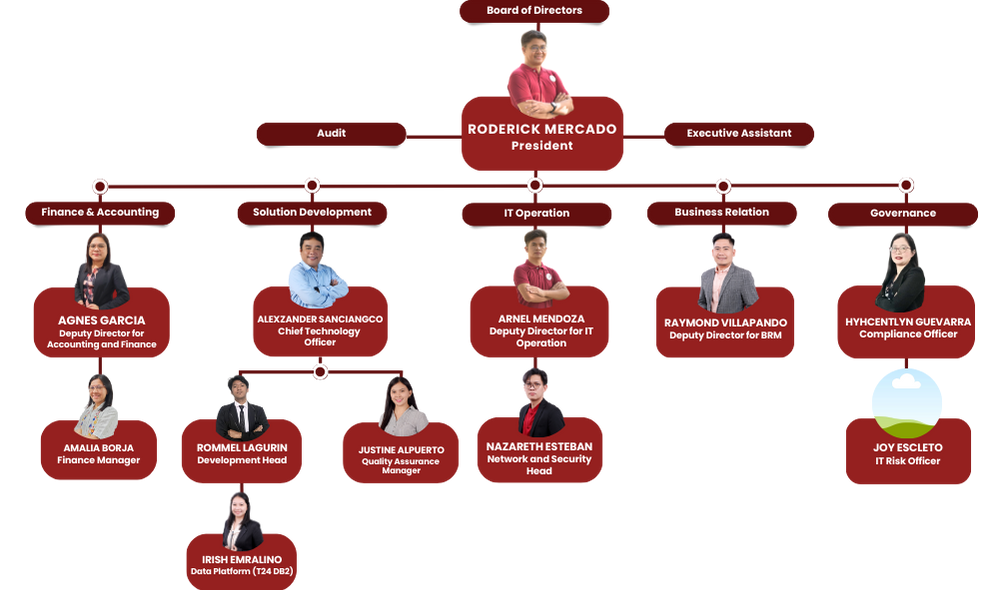
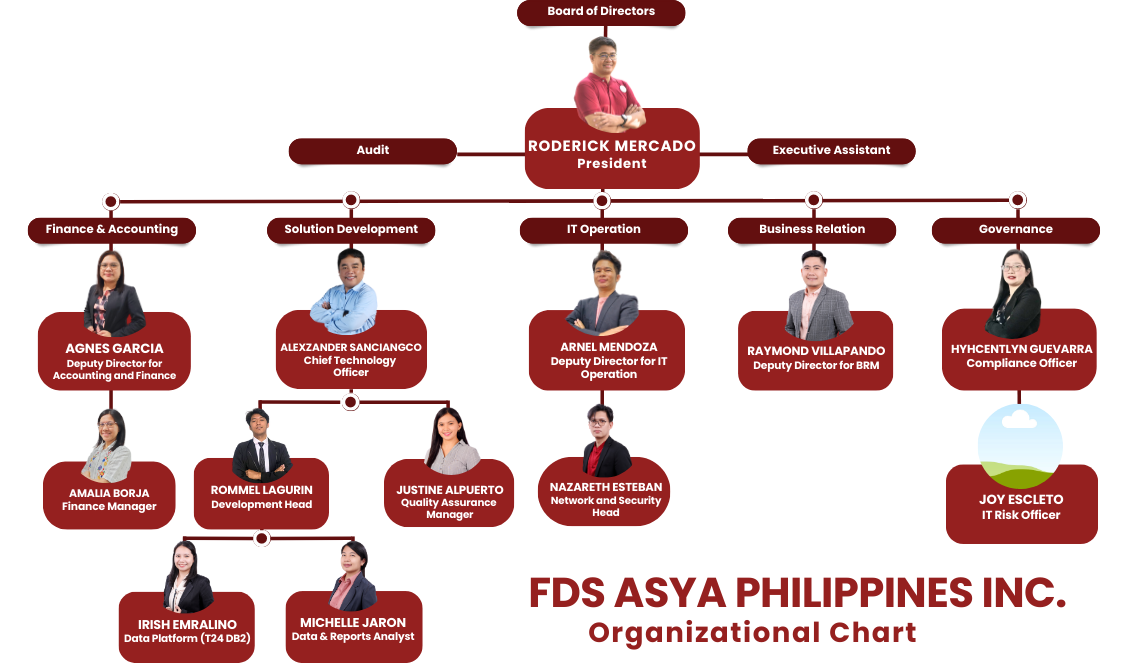
Modified Org Chart

Changed region(s): [[0.0, 0.0, 0.988, 1.0], [0.4631, 0.8542, 0.9572, 0.9763]]

diff --git a/lib/ui/screens/homepage/our_team/our_team_section.dart b/lib/ui/screens/homepage/our_team/our_team_section.dart
@@ -5,6 +5,7 @@ import 'package:FDS_ASYA_PHILIPPINES/ui/screens/shared/values/sizes.dart';
 import 'package:FDS_ASYA_PHILIPPINES/ui/screens/shared/values/strings.dart';
 import 'package:FDS_ASYA_PHILIPPINES/ui/screens/shared/values/styles.dart';
 import 'package:FDS_ASYA_PHILIPPINES/ui/screens/shared/widgets/content_area.dart';
+import 'package:FDS_ASYA_PHILIPPINES/ui/screens/shared/widgets/empty.dart';
 import 'package:FDS_ASYA_PHILIPPINES/ui/screens/shared/widgets/nimbus_info_section.dart';
 import 'package:FDS_ASYA_PHILIPPINES/ui/screens/shared/widgets/sizedbox.dart';
 import 'package:flutter/material.dart';
@@ -53,6 +54,8 @@ class _OurTeamSectionState extends State<OurTeamSection> with SingleTickerProvid
     double screenWidth = widthOfScreen(context) - (getSidePadding(context));
     double screenHeight = heightOfScreen(context);
     double contentAreaWidthSm = screenWidth * 1.1;
+    double screenWidthLg = screenWidth * 1.1;
+    double screenHeightLg = screenWidth * 1.1;
     double contentAreaWidth = responsiveSize(
       context,
       screenWidth,
@@ -90,13 +93,12 @@ class _OurTeamSectionState extends State<OurTeamSection> with SingleTickerProvid
                           if (screenWidth < (RefinedBreakpoints().tabletSmall)) {
                             return ContentArea(
                               // width: contentAreaWidthSm,
-                              child: _buildNimbusInfoSectionSm(),
+                              child: EmptyContainer(),
                             );
                           } else {
                             return ContentArea(
-                              // width: contentAreaWidth * 0.7,
-                              child: _buildNimbusInfoSectionLg(),
-                            );
+                                // width: contentAreaWidth * 0.7,
+                                child: EmptyContainer());
                           }
                         },
                       ),
@@ -112,10 +114,7 @@ class _OurTeamSectionState extends State<OurTeamSection> with SingleTickerProvid
                             );
                           } else {
                             return Center(
-                              child: _buildOrgChartImage(
-                                  // width: screenWidth * 0.75,
-                                  // height: screenHeight * 0.75,
-                                  ),
+                              child: _buildOrgChartImage(),
                             );
                           }
                         },
@@ -124,13 +123,14 @@ class _OurTeamSectionState extends State<OurTeamSection> with SingleTickerProvid
                   );
                 } else {
                   return Column(
-                    crossAxisAlignment: CrossAxisAlignment.start,
+                    crossAxisAlignment: CrossAxisAlignment.center,
                     children: [
-                      Center(
-                        child: Container(
-                          child: _buildNimbusInfoSectionLg(),
-                        ),
-                      ),SizedBoxH10(),
+                      // Center(
+                      //   child: Container(
+                      //     child: _buildNimbusInfoSectionLg(),
+                      //   ),
+                      // ),
+                      // SizedBoxH10(),
                       Center(
                         child: _buildOrgChartImage(),
                       ),
@@ -182,7 +182,9 @@ class _OurTeamSectionState extends State<OurTeamSection> with SingleTickerProvid
     );
     double textPosition = assignWidth(context, 0.1);
     return ContentArea(
-      padding: EdgeInsets.only(right: Sizes.PADDING_20),
+      padding: EdgeInsets.only(
+        right: Sizes.PADDING_60,
+      ),
       child: Stack(
         children: [
           Image.asset(

diff --git a/lib/ui/screens/shared/widgets/nimbus_info_section.dart b/lib/ui/screens/shared/widgets/nimbus_info_section.dart
@@ -808,7 +808,7 @@ class NimbusInfoInsightSection extends StatelessWidget {
                   SizedBoxH20(),
                   Text(
                     body,
-                    textAlign: TextAlign.justify,
+                    //  textAlign: TextAlign.justify,
                     style: textTheme.bodySmall?.copyWith(
                       fontSize: fontSize,
                       height: 1.8,
